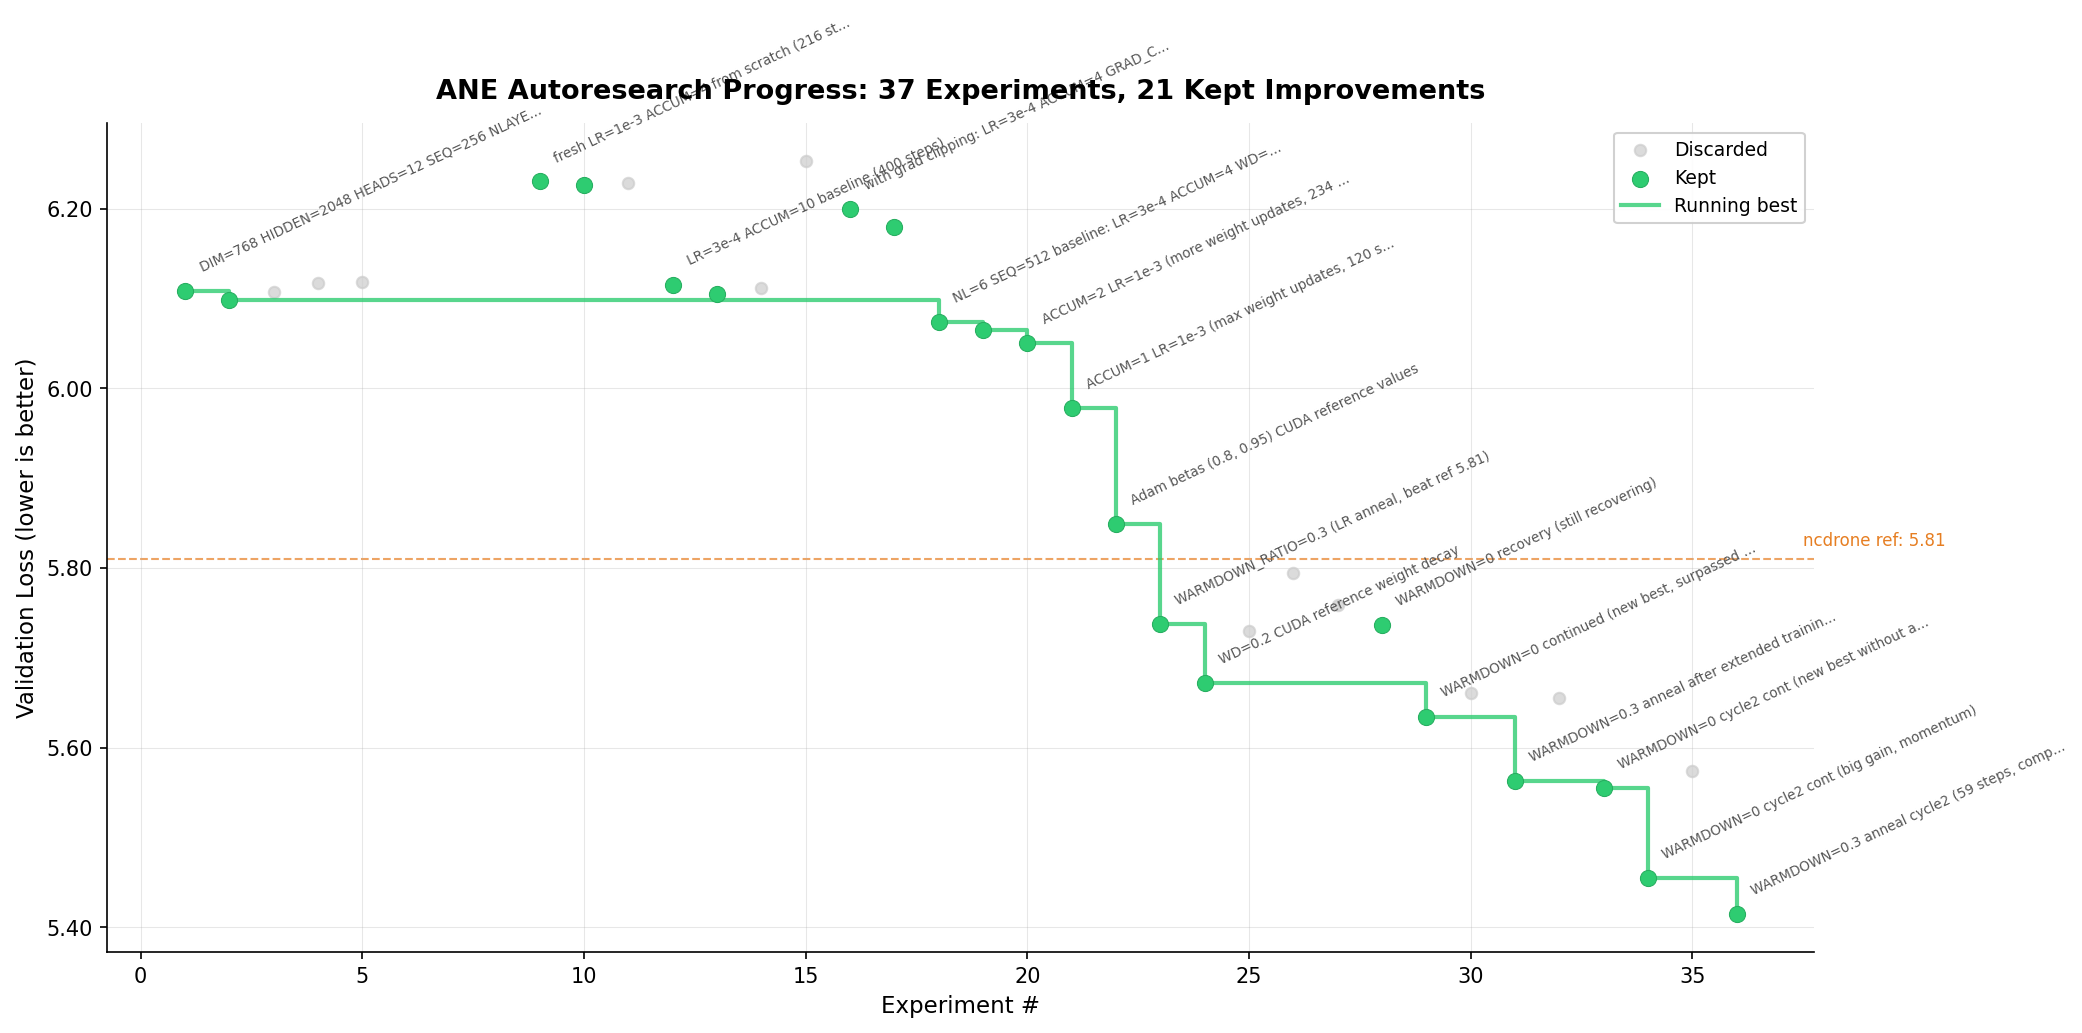
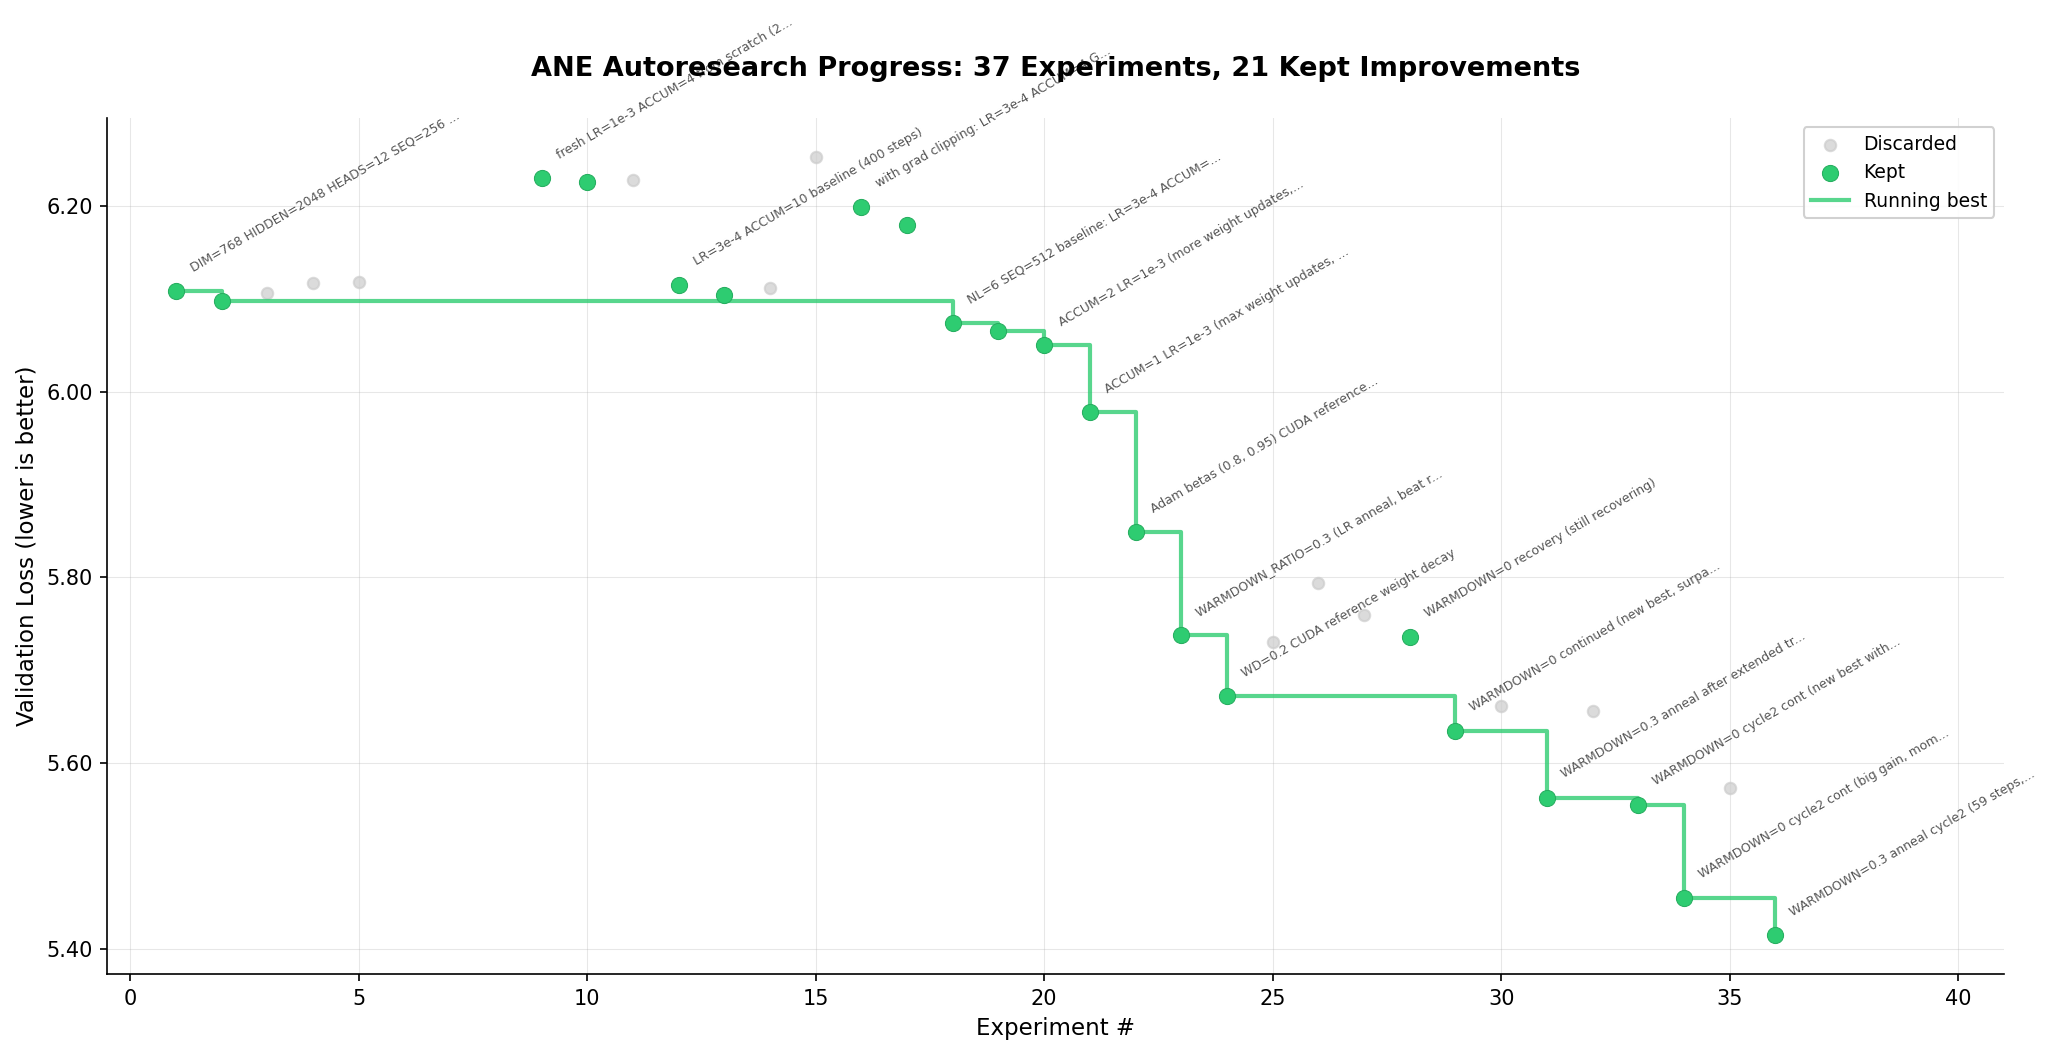
Remove ncdrone reference line, fix label clipping and title overlap

diff --git a/gen_progress.py b/gen_progress.py
@@ -81,10 +81,6 @@ ax.scatter([r['run'] for r in keeps], [r['val_loss'] for r in keeps],
 # Running best staircase
 ax.plot(staircase_x, staircase_y, c='#2ecc71', linewidth=2, zorder=2, label='Running best', alpha=0.8)
 
-# ncdrone reference line
-ax.axhline(y=5.81, color='#e67e22', linewidth=1, linestyle='--', alpha=0.7, zorder=1)
-ax.text(rows[-1]['run'] + 0.5, 5.82, 'ncdrone ref: 5.81', fontsize=8, color='#e67e22', va='bottom')
-
 # Label kept experiments (angled text)
 labeled = set()
 for r in keeps:
@@ -95,8 +91,8 @@ for r in keeps:
         if desc.startswith(prefix):
             desc = desc[len(prefix):]
     # Truncate
-    if len(desc) > 45:
-        desc = desc[:42] + '...'
+    if len(desc) > 40:
+        desc = desc[:37] + '...'
 
     # Avoid overlapping labels — skip if too close to a previously labeled point
     skip = False
@@ -110,14 +106,15 @@ for r in keeps:
 
     ax.annotate(desc, (r['run'], r['val_loss']),
                 textcoords='offset points', xytext=(6, 8),
-                fontsize=6.5, color='#555555', rotation=25,
-                ha='left', va='bottom')
+                fontsize=6, color='#555555', rotation=30,
+                ha='left', va='bottom',
+                annotation_clip=True)
 
 # Formatting
 total_kept = len(keeps)
 total_exp = len(rows)
 ax.set_title(f'ANE Autoresearch Progress: {total_exp} Experiments, {total_kept} Kept Improvements',
-             fontsize=13, fontweight='bold', pad=12)
+             fontsize=13, fontweight='bold', pad=20)
 ax.set_xlabel('Experiment #', fontsize=11)
 ax.set_ylabel('Validation Loss (lower is better)', fontsize=11)
 ax.legend(loc='upper right', fontsize=9, framealpha=0.9)
@@ -125,9 +122,13 @@ ax.grid(True, alpha=0.3, linewidth=0.5)
 ax.spines['top'].set_visible(False)
 ax.spines['right'].set_visible(False)
 
+# Add right margin so labels don't clip
+ax.set_xlim(left=-0.5, right=rows[-1]['run'] + 4)
+
 # Y-axis: show more decimal places
 ax.yaxis.set_major_formatter(ticker.FormatStrFormatter('%.2f'))
 
 plt.tight_layout()
+plt.subplots_adjust(top=0.90)
 plt.savefig(OUT, dpi=150, bbox_inches='tight', facecolor='white')
 print(f'Saved {OUT} ({OUT.stat().st_size / 1024:.0f} KB)')
